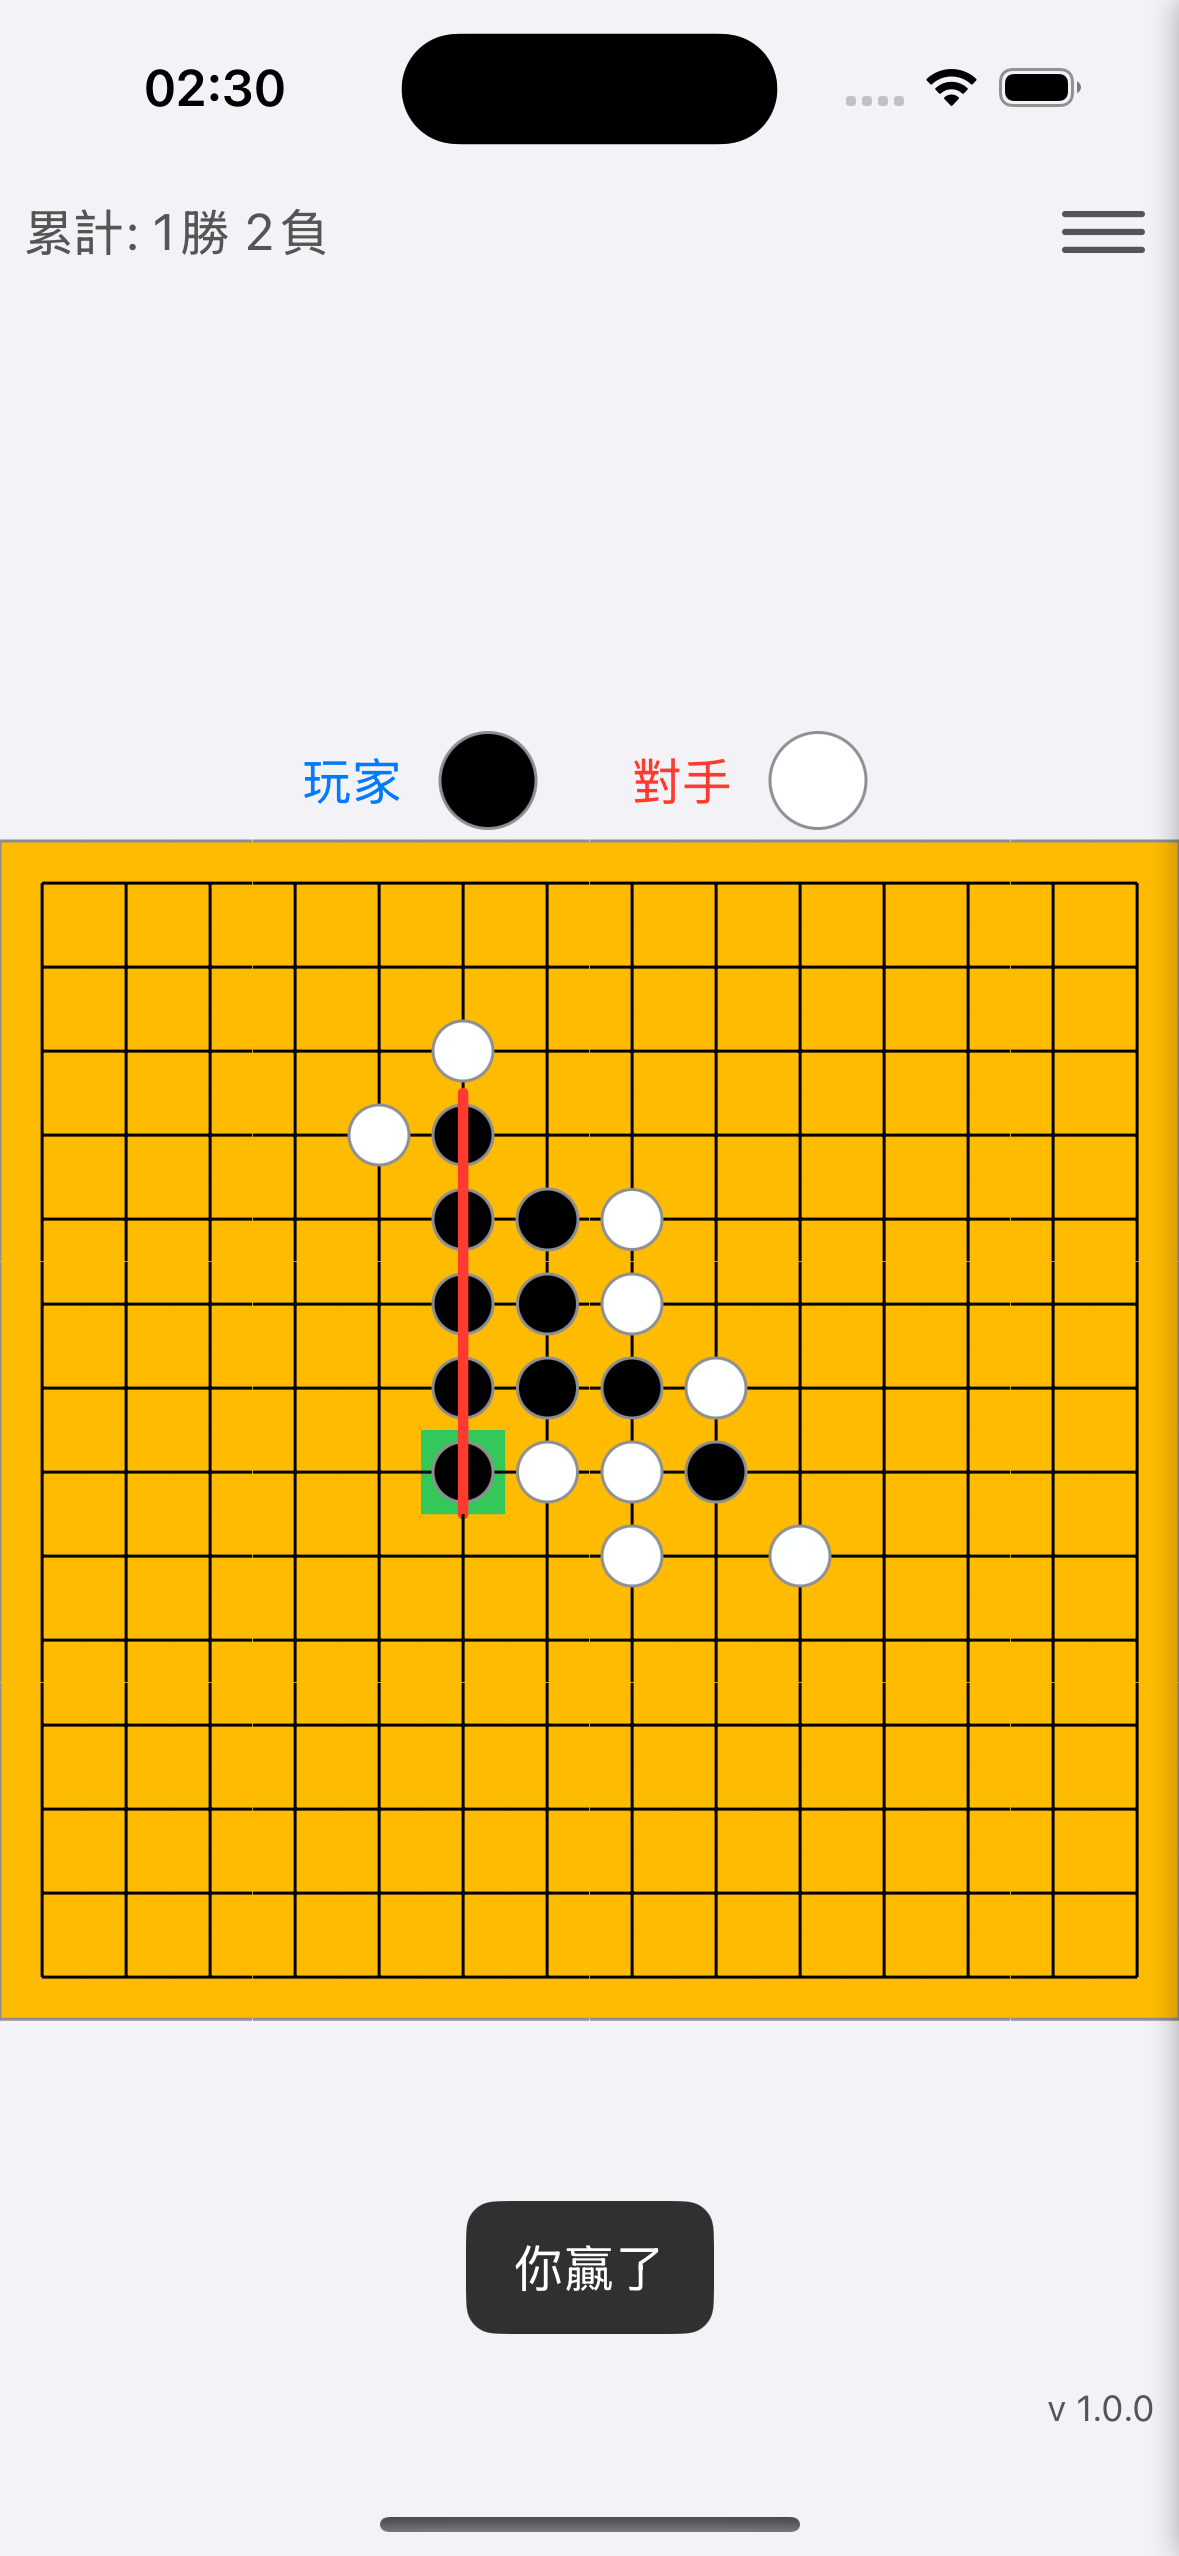
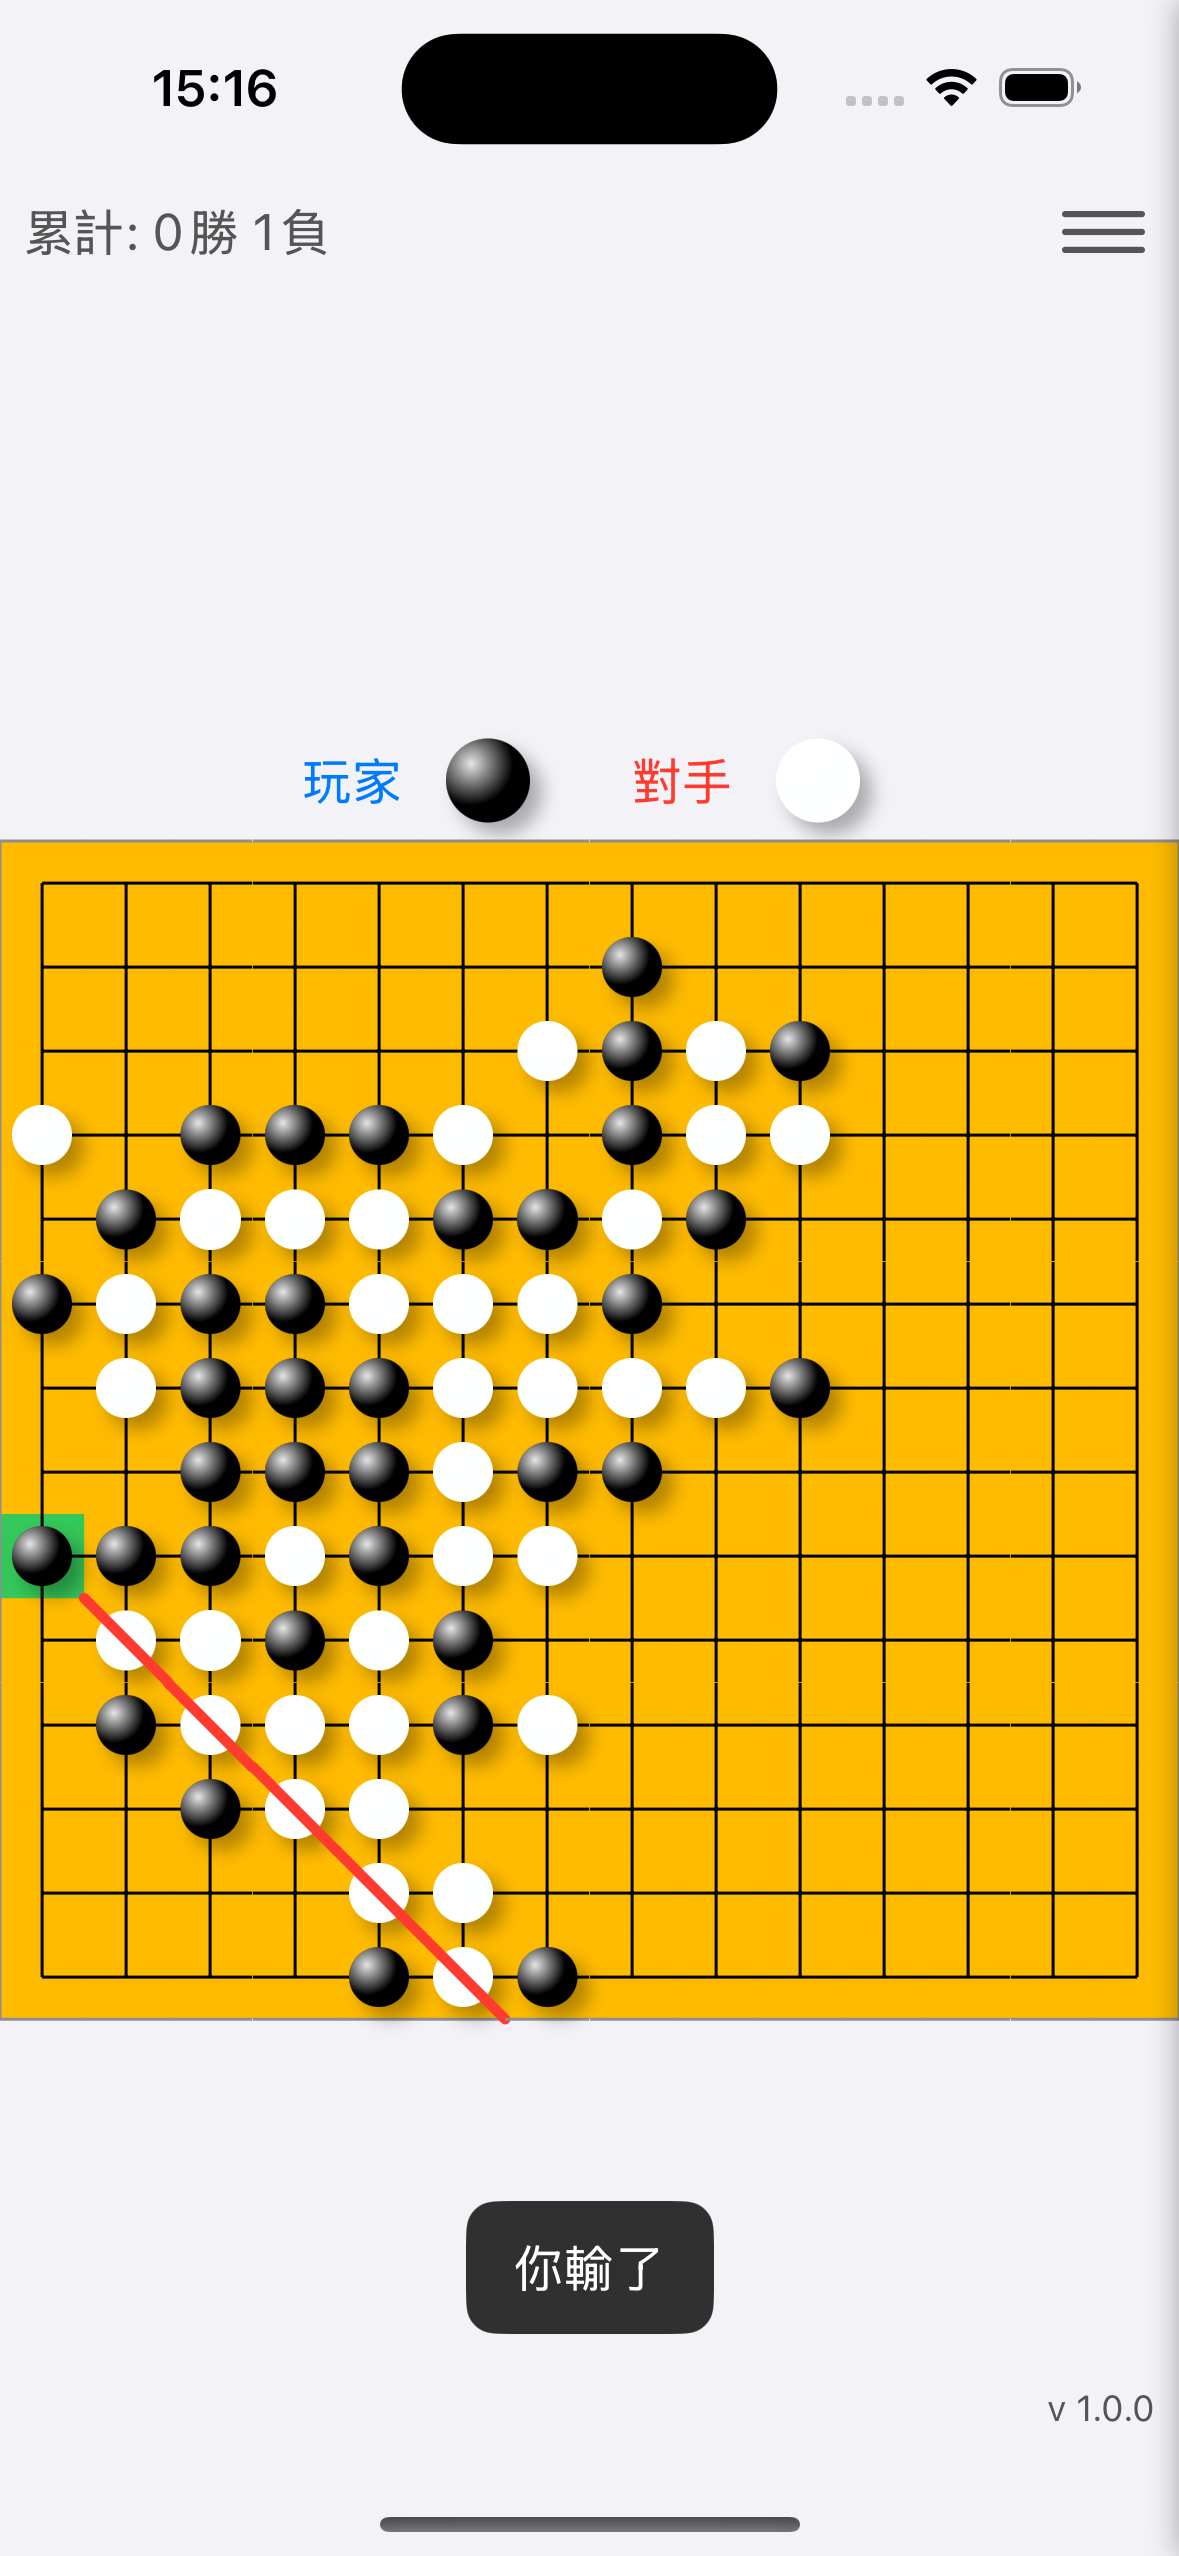
update ChessView
棋子增加光澤效果

diff --git a/View/ChessView.swift b/View/ChessView.swift
@@ -11,51 +11,38 @@ import SwiftUI
 
 struct ChessView: View {
     var chessColor: Color = .clear
+    var edge: Float = 2
 
     var body: some View {
         GeometryReader {
             geometry in
             ZStack {
                 if chessColor != .clear {
-                    let size = min(geometry.size.width, geometry.size.height)
-                    let radius = (size / 2) - 4
-
                     // 棋子主體圓形
-                    Circle()
-                        .fill(chessColor)
-                        .frame(width: radius * 2, height: radius * 2)
-                        // 高光1：強烈光點（鏡面反射）
-                        .overlay(
-                            Circle()
-                                .fill(
-                                    RadialGradient(
-                                        gradient: Gradient(colors: [.white.opacity(0.9), .clear]),
-                                        center: .topLeading,
-                                        startRadius: 0,
-                                        endRadius: radius * 0.8
-                                    )
+                    let width = geometry.size.width
+                    let radius = (width / 2) - (CGFloat(edge) * 2)
+
+                    ZStack {
+                        // 陰影 + 主體
+                        Circle()
+                            .fill(chessColor)
+                            .frame(width: radius * 2, height: radius * 2)
+                            .shadow(color: .black.opacity(0.3), radius: 3, x: 4, y: 4) // 模擬 Android 的 setShadowLayer
+
+                        // Radial 高光 (模擬反射光源)
+                        Circle()
+                            .fill(
+                                RadialGradient(
+                                    gradient: Gradient(colors: [Color.white.opacity(0.9), .clear]),
+                                    center: .init(x: 0.3, y: 0.3), // 模擬 cx - radius * 0.4, cy - radius * 0.4
+                                    startRadius: 0,
+                                    endRadius: radius
                                 )
-                                .blendMode(.screen)
-                        )
-                        // 高光2：月牙形斜向光帶
-                        .overlay(
-                            Circle()
-                                .strokeBorder(
-                                    LinearGradient(
-                                        gradient: Gradient(colors: [
-                                            .white.opacity(0.5),
-                                            .clear
-                                        ]),
-                                        startPoint: .topLeading,
-                                        endPoint: .bottomTrailing
-                                    ),
-                                    lineWidth: radius * 0.2
-                                )
-                                .blur(radius: 1)
-                                .offset(x: -radius * 0.2, y: -radius * 0.2)
-                                .mask(Circle())
-                        )
-                        .shadow(color: .black.opacity(0.3), radius: 3, x: 2, y: 2) // 外陰影
+                            )
+                            .frame(width: radius * 2, height: radius * 2)
+                            .blendMode(.screen)
+                    }
+                    .frame(width: geometry.size.width, height: geometry.size.height)
 
                     // 外框
 //                    Circle()

diff --git a/View/PlayerTypeBarView.swift b/View/PlayerTypeBarView.swift
@@ -17,14 +17,16 @@ struct PlayerTypeBarView: View {
             Text("PLAYER".localized)
                 .foregroundColor(.blue)
                 .font(.body)
-            ChessView(chessColor: selectedChessType?.displayColor ?? .clear)
+            ChessView(chessColor: selectedChessType?.displayColor ?? .clear,
+                      edge: 3)
                 .frame(width: 40, height: 40)
                 .padding(.trailing, 20)
             
             Text("OPPONENT".localized)
                 .foregroundColor(.red)
                 .font(.body)
-            ChessView(chessColor: selectedChessType?.theOther.displayColor ?? .clear)
+            ChessView(chessColor: selectedChessType?.theOther.displayColor ?? .clear,
+                      edge: 3)
                 .frame(width: 40, height: 40)
         }
     }
